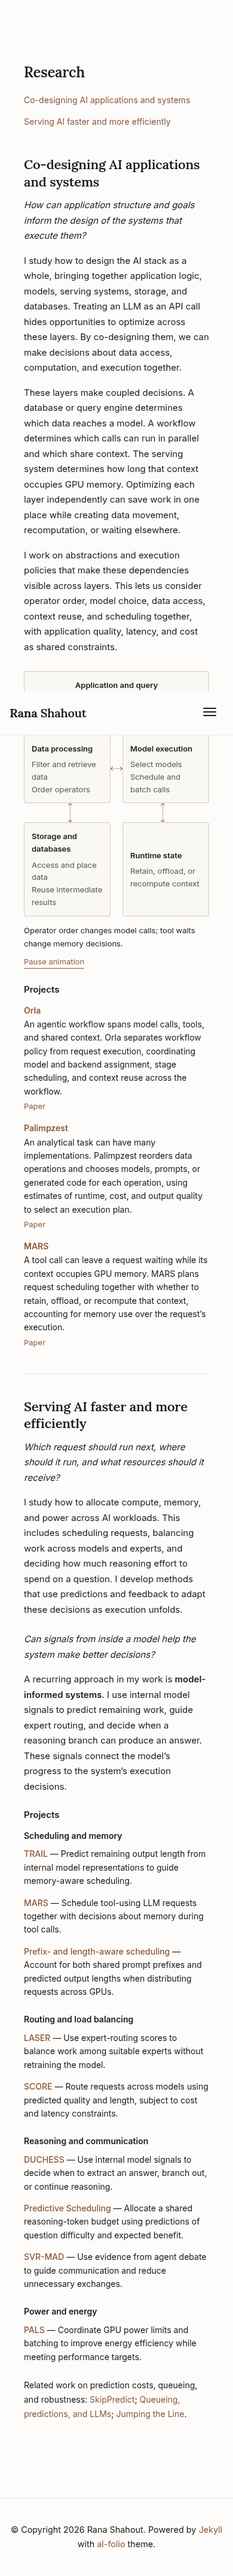
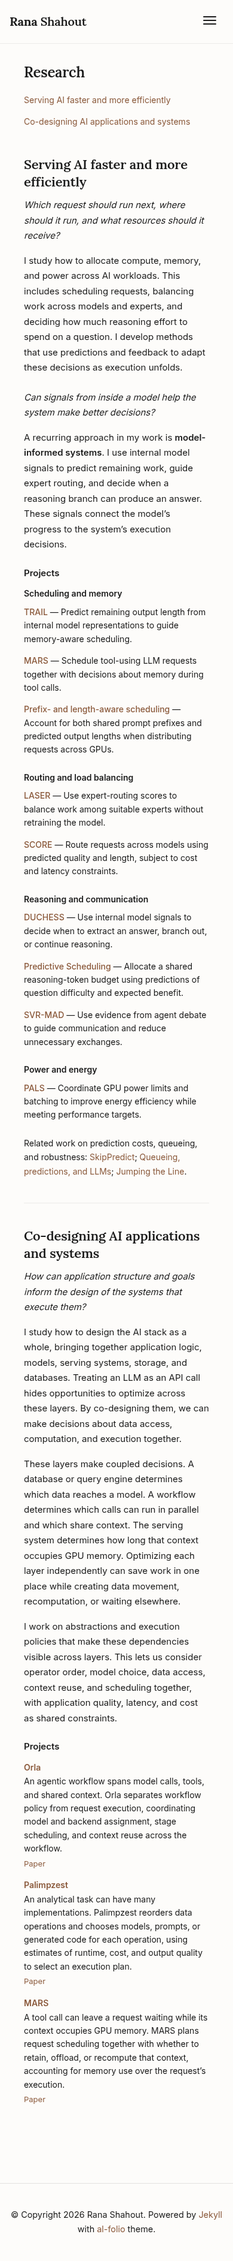
Update research previews with serving first and no illustration

diff --git a/docs/design-preview/README.md b/docs/design-preview/README.md
@@ -2,27 +2,19 @@
 
 The Research page uses Rana's approved questions and explanations for two directions:
 
-1. **Co-designing AI applications and systems** — Orla, Palimpzest, and MARS.
-2. **Serving AI faster and more efficiently** — scheduling, routing, reasoning,
+1. **Serving AI faster and more efficiently** — scheduling, routing, reasoning,
    communication, and power allocation. Model-informed systems is presented as a method.
+2. **Co-designing AI applications and systems** — Orla, Palimpzest, and MARS.
 
 Both pages use Inter body text, Lora headings, and the same warm palette.
 The homepage now uses the new portrait, framed without changing the original image.
 Google Scholar, LinkedIn, email, and GitHub icons appear on the homepage.
 Profile links have been removed from Research. The blog is unchanged.
 
-The Research page includes one small animated diagram. It has a pause control and
-becomes static when the reader requests reduced motion. The GIF below demonstrates
-the motion; the website uses HTML and CSS.
-
-The first direction now explains how query planning, model selection, workflow
-dependencies, data access, and context lifetime constrain one another. Its diagram
-shows the decisions in data processing, model execution, storage, and runtime state.
-The project descriptions explain the specific cross-layer decisions each system makes.
-
-## Animated diagram
-
-![Information moving between application, serving, and data layers](research-stack.gif)
+The serving direction appears first in both the page and its navigation.
+The illustration and animation controls have been removed. The co-design section
+explains the connections between query planning, model selection, workflow
+dependencies, data access, and context lifetime.
 
 ## Research — desktop
 
@@ -42,8 +34,8 @@ The project descriptions explain the specific cross-layer decisions each system 
 
 Validated with a Jekyll build, formatting and style checks, and Chromium at
 1440px, 820px, 390px, and 320px widths. Checks cover the approved text, project links,
-font loading, overflow, section navigation, mobile navigation, animation controls,
-and reduced motion. A pre-existing template error (`addBackToTop is not defined`)
+font loading, overflow, section order, section navigation, mobile navigation,
+and the removal of the illustration and its script. A pre-existing template error (`addBackToTop is not defined`)
 also occurs on the unchanged Blog page; the new page adds no browser errors.
 
 These previews do not change the live website.
